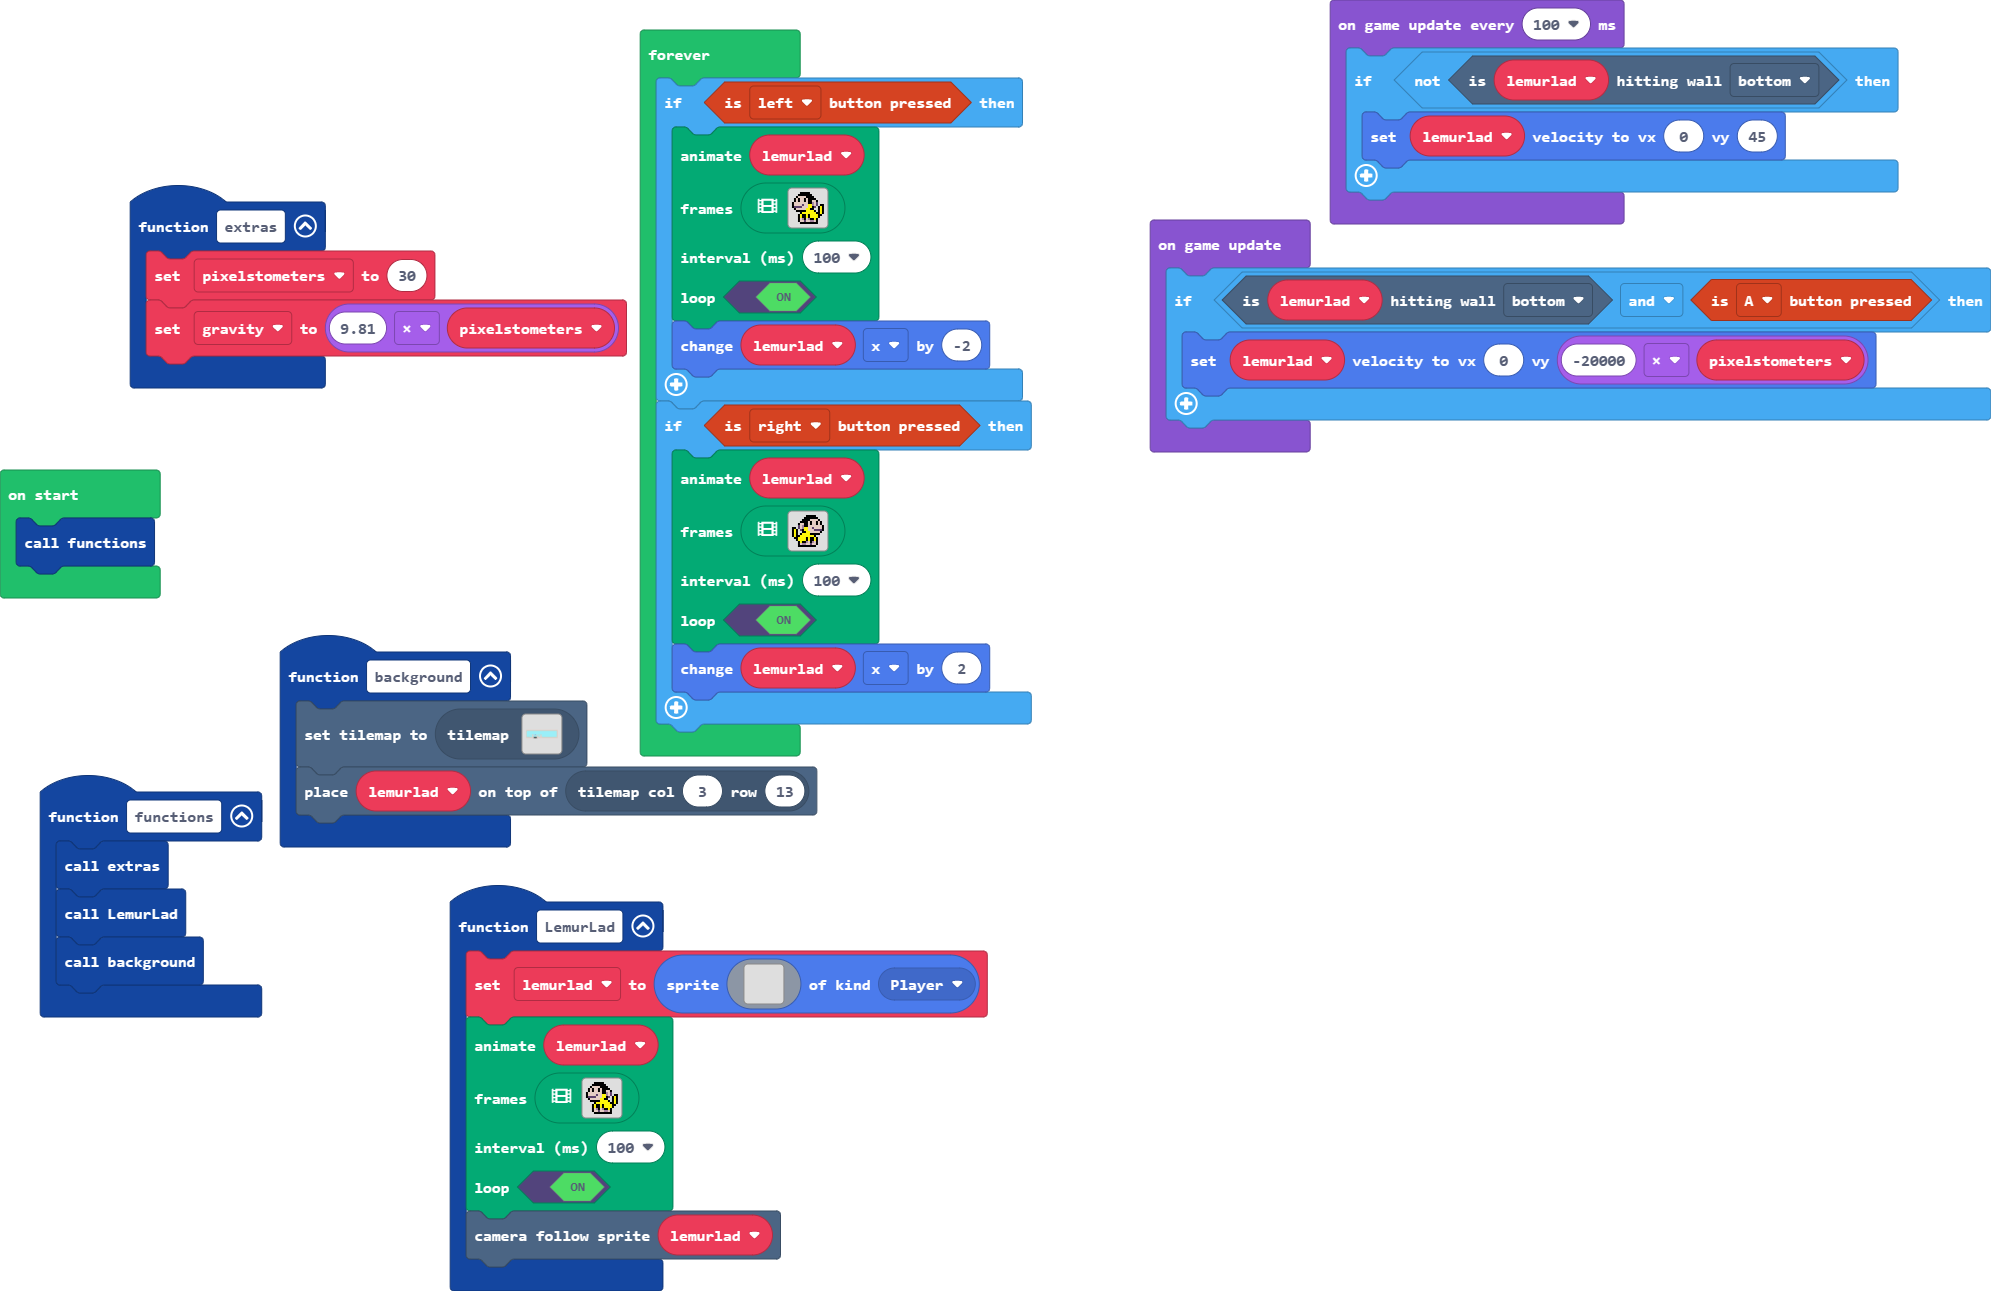
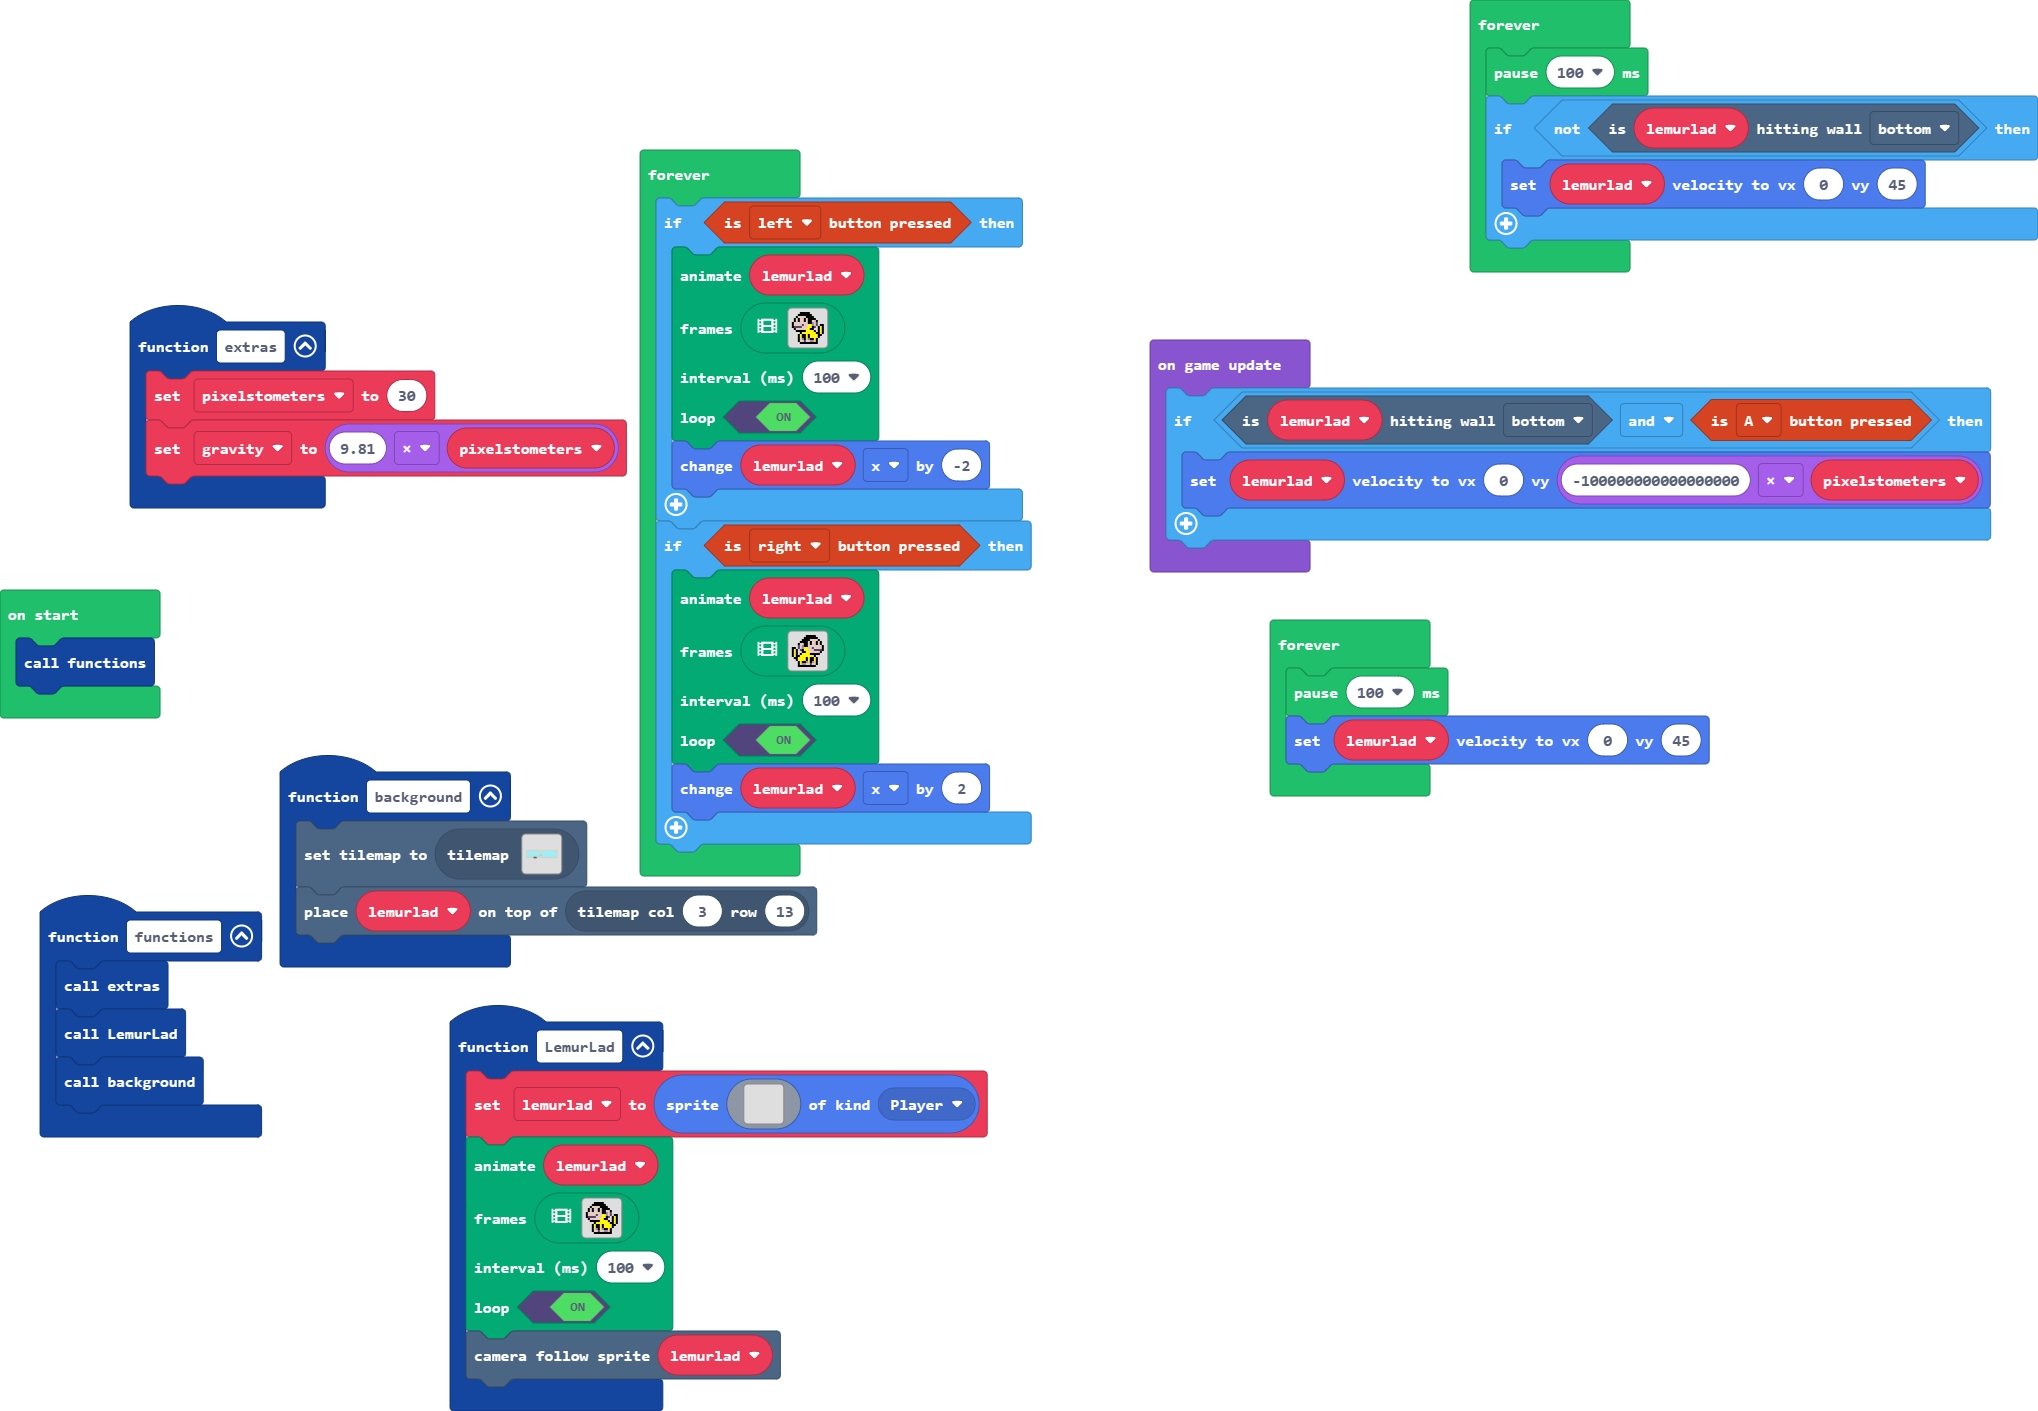
Update main.blocks, main.ts, tilemap.g.jres, tilemap.g.ts

diff --git a/tilemap.g.ts b/tilemap.g.ts
@@ -4,6 +4,8 @@ namespace myTiles {
     export const transparency16 = image.ofBuffer(hex``);
     //% fixedInstance jres blockIdentity=images._tile
     export const tile1 = image.ofBuffer(hex``);
+    //% fixedInstance jres blockIdentity=images._tile
+    export const tile2 = image.ofBuffer(hex``);
 
     helpers._registerFactory("tilemap", function(name: string) {
         switch(helpers.stringTrim(name)) {
@@ -27,16 +29,16 @@ namespace myTiles {
 . . . . . . . . . . . . . . . . 
 `, [myTiles.transparency16], TileScale.Sixteen);
             case "level":
[1 lines of base64/hex data omitted]
+            case "level1":return tiles.createTilemap(hex`4000100001010101010101010101010101010101010101010101010101010101010101010101010101010101010101010101010101010101010101010101010101010101010103030303030303030303030303030303030303030303030303030101010101010303030303030303030303030303030303030303030303030303030301010104020202020202020202020202020202020202020202020202020201010101010102020202020202020202020202020202020202020202020202020202060101040202020202020202020202020202020202020202020202020202010101010101020202020202020202020202020202020202020202020202020202020601010402020202020202020202020202020202020202020202020202020202010102020202020202020202020202020202020202020202020202020202020206010104020202020202020202020202020202020202020202020202020202020101020202020202020202020202020202020202020202020202020202020202060101040202020202020202020202020202020202020202020202020202020201010202020202020202020202020202020202020202020202020202020202020601010402020202020202020202020202020202020202020202020202020202010102020202020202020202020202020202020202020202020202020202020206010104020202020202020202020202020202020202020202020202020202020101020202020202020202020202020202020202020202020202020202020202060101040202020202020202020205050505020202020205050205050505050501010202020202020202020202020202020202020202020202020202020202020601010402020202020205050202010101010202020202020102020202020202090902020202020202020202020202020202020202020202020202020202020206010104020202020202020202020201010202050505050201050202020202020909020202020202020202020202020202020202020202020202020202020202060101040202020505020202020202010102020202020202010105050202050501010202020202020202020202020202020202020202020202020202020202020601010402020202020202020202020101020202020202020101010102020101010102020202020202020202020202020202020202020202020202020202020206010101050505050505050505050501010507070707070701010101050501010101050505050505050505050505050505050505050505050505050505050505010101010101010101010101010101010101080808080808010101010101010101010101010101010101010101010101010101010101010101010101010101010101`, img`
 2222222222222222222222222222222222222222222222222222222222222222
 2222222222222222222222222222222222222222222222222222222222222222
-22............................................................22
-22............................................................22
-22............................................................22
-22............................................................22
-22............................................................22
-22............................................................22
-22............................................................22
+22..........................222222............................22
+22..........................222222............................22
+22............................22..............................22
+22............................22..............................22
+22............................22..............................22
+22............................22..............................22
+22............................22..............................22
 22..........2222.....22.22222222..............................22
 22......22..2222......2.......................................22
 22...........22..2222.22......................................22
@@ -44,7 +46,7 @@ namespace myTiles {
 22...........22.......2222..2222..............................22
 2222222222222222......222222222222222222222222222222222222222222
 2222222222222222......222222222222222222222222222222222222222222
-`, [myTiles.transparency16,sprites.castle.tilePath5,myTiles.tile1,sprites.castle.tilePath8,sprites.castle.tilePath6,sprites.castle.tilePath2,sprites.castle.tilePath4,sprites.swamp.swampTile4,sprites.swamp.swampTile5,sprites.builtin.forestTiles6,sprites.builtin.forestTiles10], TileScale.Sixteen);
+`, [myTiles.transparency16,sprites.castle.tilePath5,myTiles.tile1,sprites.castle.tilePath8,sprites.castle.tilePath6,sprites.castle.tilePath2,sprites.castle.tilePath4,sprites.builtin.forestTiles6,sprites.builtin.forestTiles10,myTiles.tile2], TileScale.Sixteen);
         }
         return null;
     })
@@ -54,6 +56,8 @@ namespace myTiles {
             case "transparency16":return transparency16;
             case "myTile":
             case "tile1":return tile1;
+            case "myTile0":
+            case "tile2":return tile2;
         }
         return null;
     })

diff --git a/main.ts b/main.ts
@@ -44,7 +44,13 @@ let lemurlad: Sprite = null
 functions()
 game.onUpdate(function () {
     if (lemurlad.isHittingTile(CollisionDirection.Bottom) && controller.A.isPressed()) {
-        lemurlad.setVelocity(0, -20000 * pixelstometers)
+        lemurlad.setVelocity(0, -100000000000000000 * pixelstometers)
+    }
+})
+forever(function () {
+    pause(100)
+    if (!(lemurlad.isHittingTile(CollisionDirection.Bottom))) {
+        lemurlad.setVelocity(0, 45)
     }
 })
 forever(function () {
@@ -67,8 +73,7 @@ forever(function () {
         lemurlad.x += 2
     }
 })
-game.onUpdateInterval(100, function () {
-    if (!(lemurlad.isHittingTile(CollisionDirection.Bottom))) {
-        lemurlad.setVelocity(0, 45)
-    }
+forever(function () {
+    pause(100)
+    lemurlad.setVelocity(0, 45)
 })
